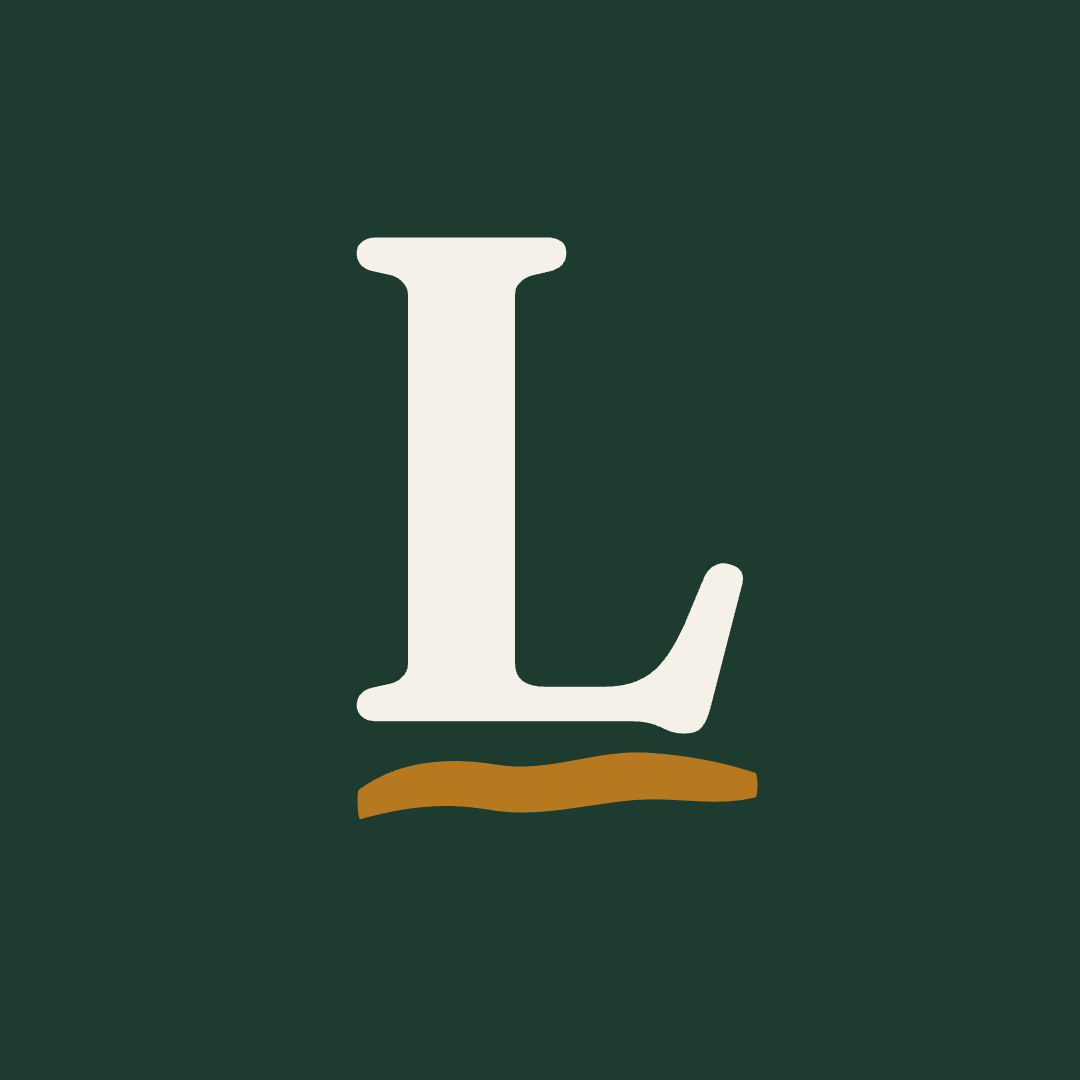
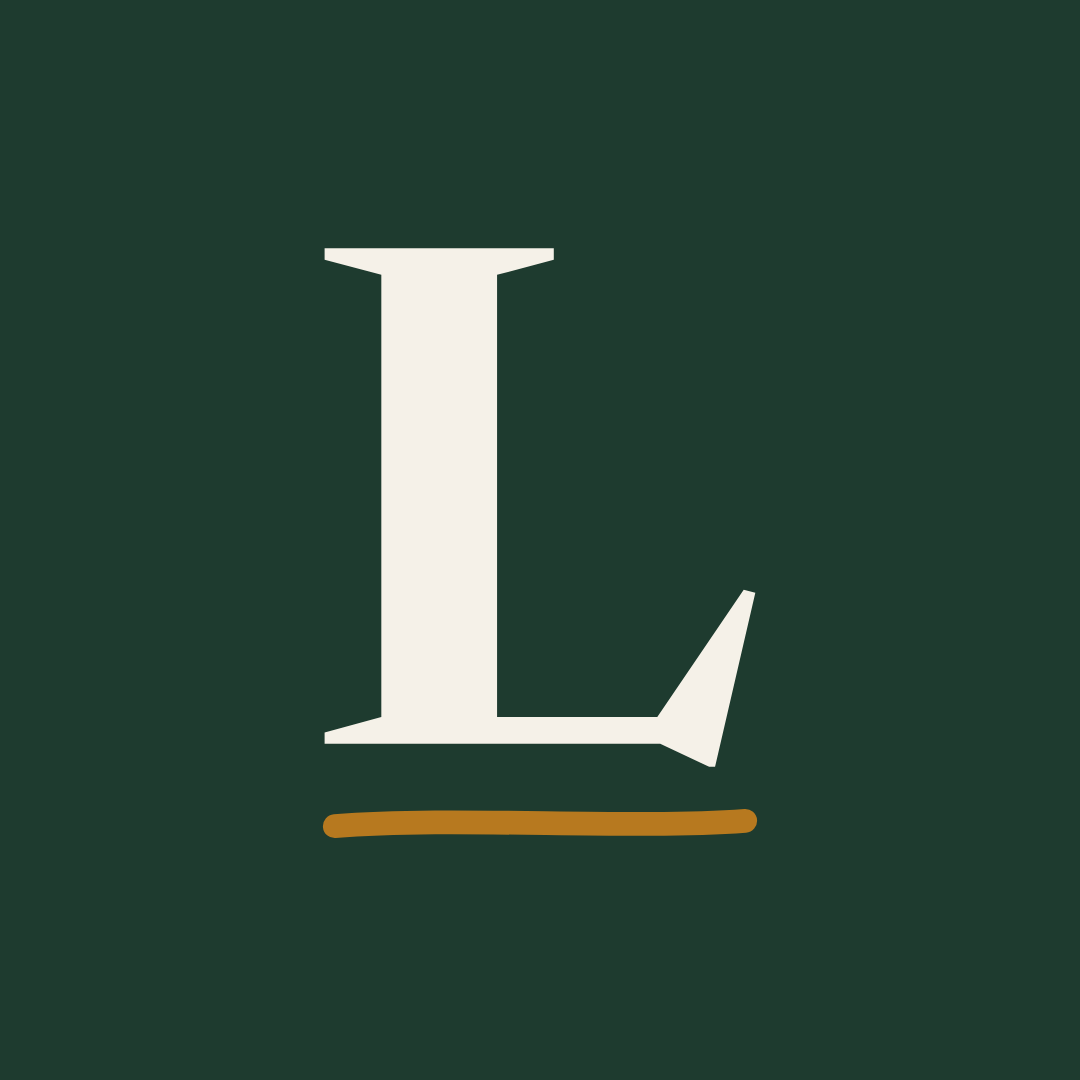
Subtítulo da Home, logotipo e símbolo em Newsreader, textos dos cards
Claude-Session: https://claude.ai/code/session_011keLgVwLSDZ8ngHoGxKHcz

Changed region(s): [[0.3056, 0.2139, 0.7028, 0.7944]]

diff --git a/src/i18n/pt-BR.ts b/src/i18n/pt-BR.ts
@@ -9,7 +9,7 @@ export const ptBR = {
   hero: {
     kicker: 'Idiomas para quem fala português',
     titulo: 'Idiomas explicados de verdade, do zero ao B1.',
-    sub: 'Gramática clara quando você precisa, áudio em cada frase e exercícios corrigidos na hora. Sessões de 30 minutos, com explicação em português.',
+    sub: 'Entre no idioma desde a primeira sessão: diálogos, áudio e fala. A gramática e o vocabulário entram quando você precisa, explicados em português.',
     link: 'Ver como funciona',
     niveis: 'Do zero ao B1',
     labelIdioma: 'Quero aprender',

diff --git a/docs/BRIEFING-DESIGN.md b/docs/BRIEFING-DESIGN.md
@@ -13,7 +13,7 @@ Paleta (usar só estas):
 - Grafite #1D1F1C (texto)
 - Ocre queimado #B7791F (apenas no traço da barra de progresso e em pequenos detalhes)
 
-Tipografia: Fraunces (serifada, títulos, peso 600, tracking levemente negativo) e Inter (corpo). Escala forte e hierárquica.
+Tipografia: Newsreader (serifada, títulos, peso 600, tracking levemente negativo) e Source Sans 3 (corpo). Escala forte e hierárquica.
 
 Elemento de assinatura: uma barra de progresso desenhada à mão, em traço riscado de caneta, que começa curta e cresce. Ela representa evolução e mudança de vida. Deve parecer feita por uma pessoa, com leve irregularidade, nunca perfeita nem vetorial fria.
 
@@ -25,7 +25,7 @@ Tom: confiante, culto e direto. Nada de texto de vendedor de curso. Não afirmar
 ## 1. Logo
 
 ```
-Redesenhe o logo da Linvuu. Entregar: (a) logotipo horizontal com a palavra "Linvuu" em Fraunces ou serifada própria, (b) símbolo isolado quadrado para avatar, (c) versões em verde sobre off-white, off-white sobre verde e monocromática grafite.
+Redesenhe o logo da Linvuu. Entregar: (a) logotipo horizontal com a palavra "Linvuu" em Newsreader, (b) símbolo isolado quadrado para avatar, (c) versões em verde sobre off-white, off-white sobre verde e monocromática grafite.
 Ideia: a letra inicial ou o traço sob a palavra forma uma barra de progresso riscada à mão, em ocre, que cresce da esquerda para a direita. Sutil, sem ícone de livro, balão de fala ou globo.
 Legibilidade a 24 px de altura. Entregar SVG e PNG com fundo transparente.
 ```
@@ -37,7 +37,7 @@ Capa de apostila Linvuu, sistema único para todos os idiomas e níveis, variand
 Fundo verde floresta. Margens de 18 mm.
 Topo: logotipo Linvuu em off-white, pequeno.
 Centro-alto: a palavra "olá" do idioma, no próprio alfabeto, escrita à mão em grande escala, off-white (Francês: Bonjour. Russo: Привет. Alemão: Hallo. Inglês: Hello).
-Centro: nome do idioma em Fraunces, muito grande (ex.: "Francês"). Abaixo, em Inter: "Nível A1 · Aulas 1 a 18".
+Centro: nome do idioma em Newsreader, muito grande (ex.: "Francês"). Abaixo, em Source Sans 3: "Nível A1 · Aulas 1 a 18".
 Abaixo: a barra de progresso riscada à mão em ocre. Ela está preenchida proporcionalmente ao nível: A1 curta, A2 média, B1 longa.
 Rodapé: "linvuu.com.br".
 Entregar um template editável com campos: idioma, saudação, nível, intervalo de aulas, comprimento da barra.
@@ -48,8 +48,8 @@ Lombada (para versão impressa futura): vertical, "Linvuu · Francês · A1".
 
 ```
 Contracapa A4 da apostila Linvuu, off-white #F5F1E8 com texto grafite.
-Título em Fraunces: "Fale de verdade."
-Três blocos curtos em Inter: "Sessões de 30 minutos" / "Gramática clara, com tabelas" / "Áudio em cada frase".
+Título em Newsreader: "Fale de verdade."
+Três blocos curtos em Source Sans 3: "Sessões de 30 minutos" / "Gramática clara, com tabelas" / "Áudio em cada frase".
 Parágrafo: "Esta apostila acompanha o curso online da Linvuu. Cada aula tem quatro sessões e termina em prática oral. Estude no seu ritmo, volte quando precisar."
 Nota pequena: "Material de estudo da Linvuu. O certificado de nível é emitido pela Linvuu e não substitui exames oficiais."
 Rodapé: logo pequeno e "linvuu.com.br". Sem código de barras, sem selo "oficial", sem foto.
@@ -59,7 +59,7 @@ Rodapé: logo pequeno e "linvuu.com.br". Sem código de barras, sem selo "oficia
 
 ```
 Certificado de conclusão de nível, A4 paisagem, off-white com moldura fina verde floresta e canto com traço de barra de progresso ocre cheia.
-Título (Fraunces): "Certificado de conclusão".
+Título (Newsreader): "Certificado de conclusão".
 Texto central: "A Linvuu certifica que [NOME COMPLETO] concluiu o nível [A1/A2/B1] do curso de [IDIOMA], com [N] aulas e [H] horas de estudo."
 Data de emissão e assinatura "Linvuu" (assinatura tipográfica, sem rosto nem carimbo).
 Rodapé obrigatório, legível: "Certificado de conclusão emitido pela Linvuu. Não é uma certificação oficial e não substitui exames de proficiência reconhecidos."
@@ -73,7 +73,7 @@ Horas por nível (4 sessões de 30 min por aula = 2 h por aula): A1 com 18 aulas
 ```
 Instagram e Facebook, avatar: símbolo da Linvuu, quadrado 1080x1080, centrado em círculo seguro.
 Facebook capa: 820x312 px, conteúdo importante dentro de 640x312 (centro) para o celular. Verde floresta, logotipo off-white à esquerda, barra riscada ocre atravessando, frase "Fale de verdade."
-LinkedIn capa: 1584x396 px, mesma ideia, mais sóbria, com "Idiomas para quem vai viver fora." em Inter.
+LinkedIn capa: 1584x396 px, mesma ideia, mais sóbria, com "Idiomas para quem vai viver fora." em Source Sans 3.
 YouTube banner: 2560x1440 px, área segura 1546x423 no centro, logotipo e "Fale de verdade."
 Mesma identidade das peças anteriores. Sem foto de pessoas, sem emoji.
 ```
@@ -84,7 +84,7 @@ Mesma identidade das peças anteriores. Sem foto de pessoas, sem emoji.
    - Campo "Company name and blurb": a primeira parte do texto sugerido no chat (marca, público e direção visual).
    - Link do GitHub: já está (`FelipeVRosa/Linvuu`).
    - Arquivos: suba `public/brand/linvuu-logo.png` e `linvuu-mark.png` como referência provisória.
-   - Fontes: Fraunces e Inter (são livres, Google Fonts).
+   - Fontes: Newsreader e Source Sans 3 (livres).
 2. **Depois que a ferramenta gerar as peças:** baixe os arquivos e anexe-os aqui no chat. Eu coloco no repositório assim:
    - Logo e símbolo (SVG/PNG): `public/brand/`
    - Capas, certificado, redes sociais: `public/brand/` (peças fixas) e `content/livros/` (templates das apostilas)
